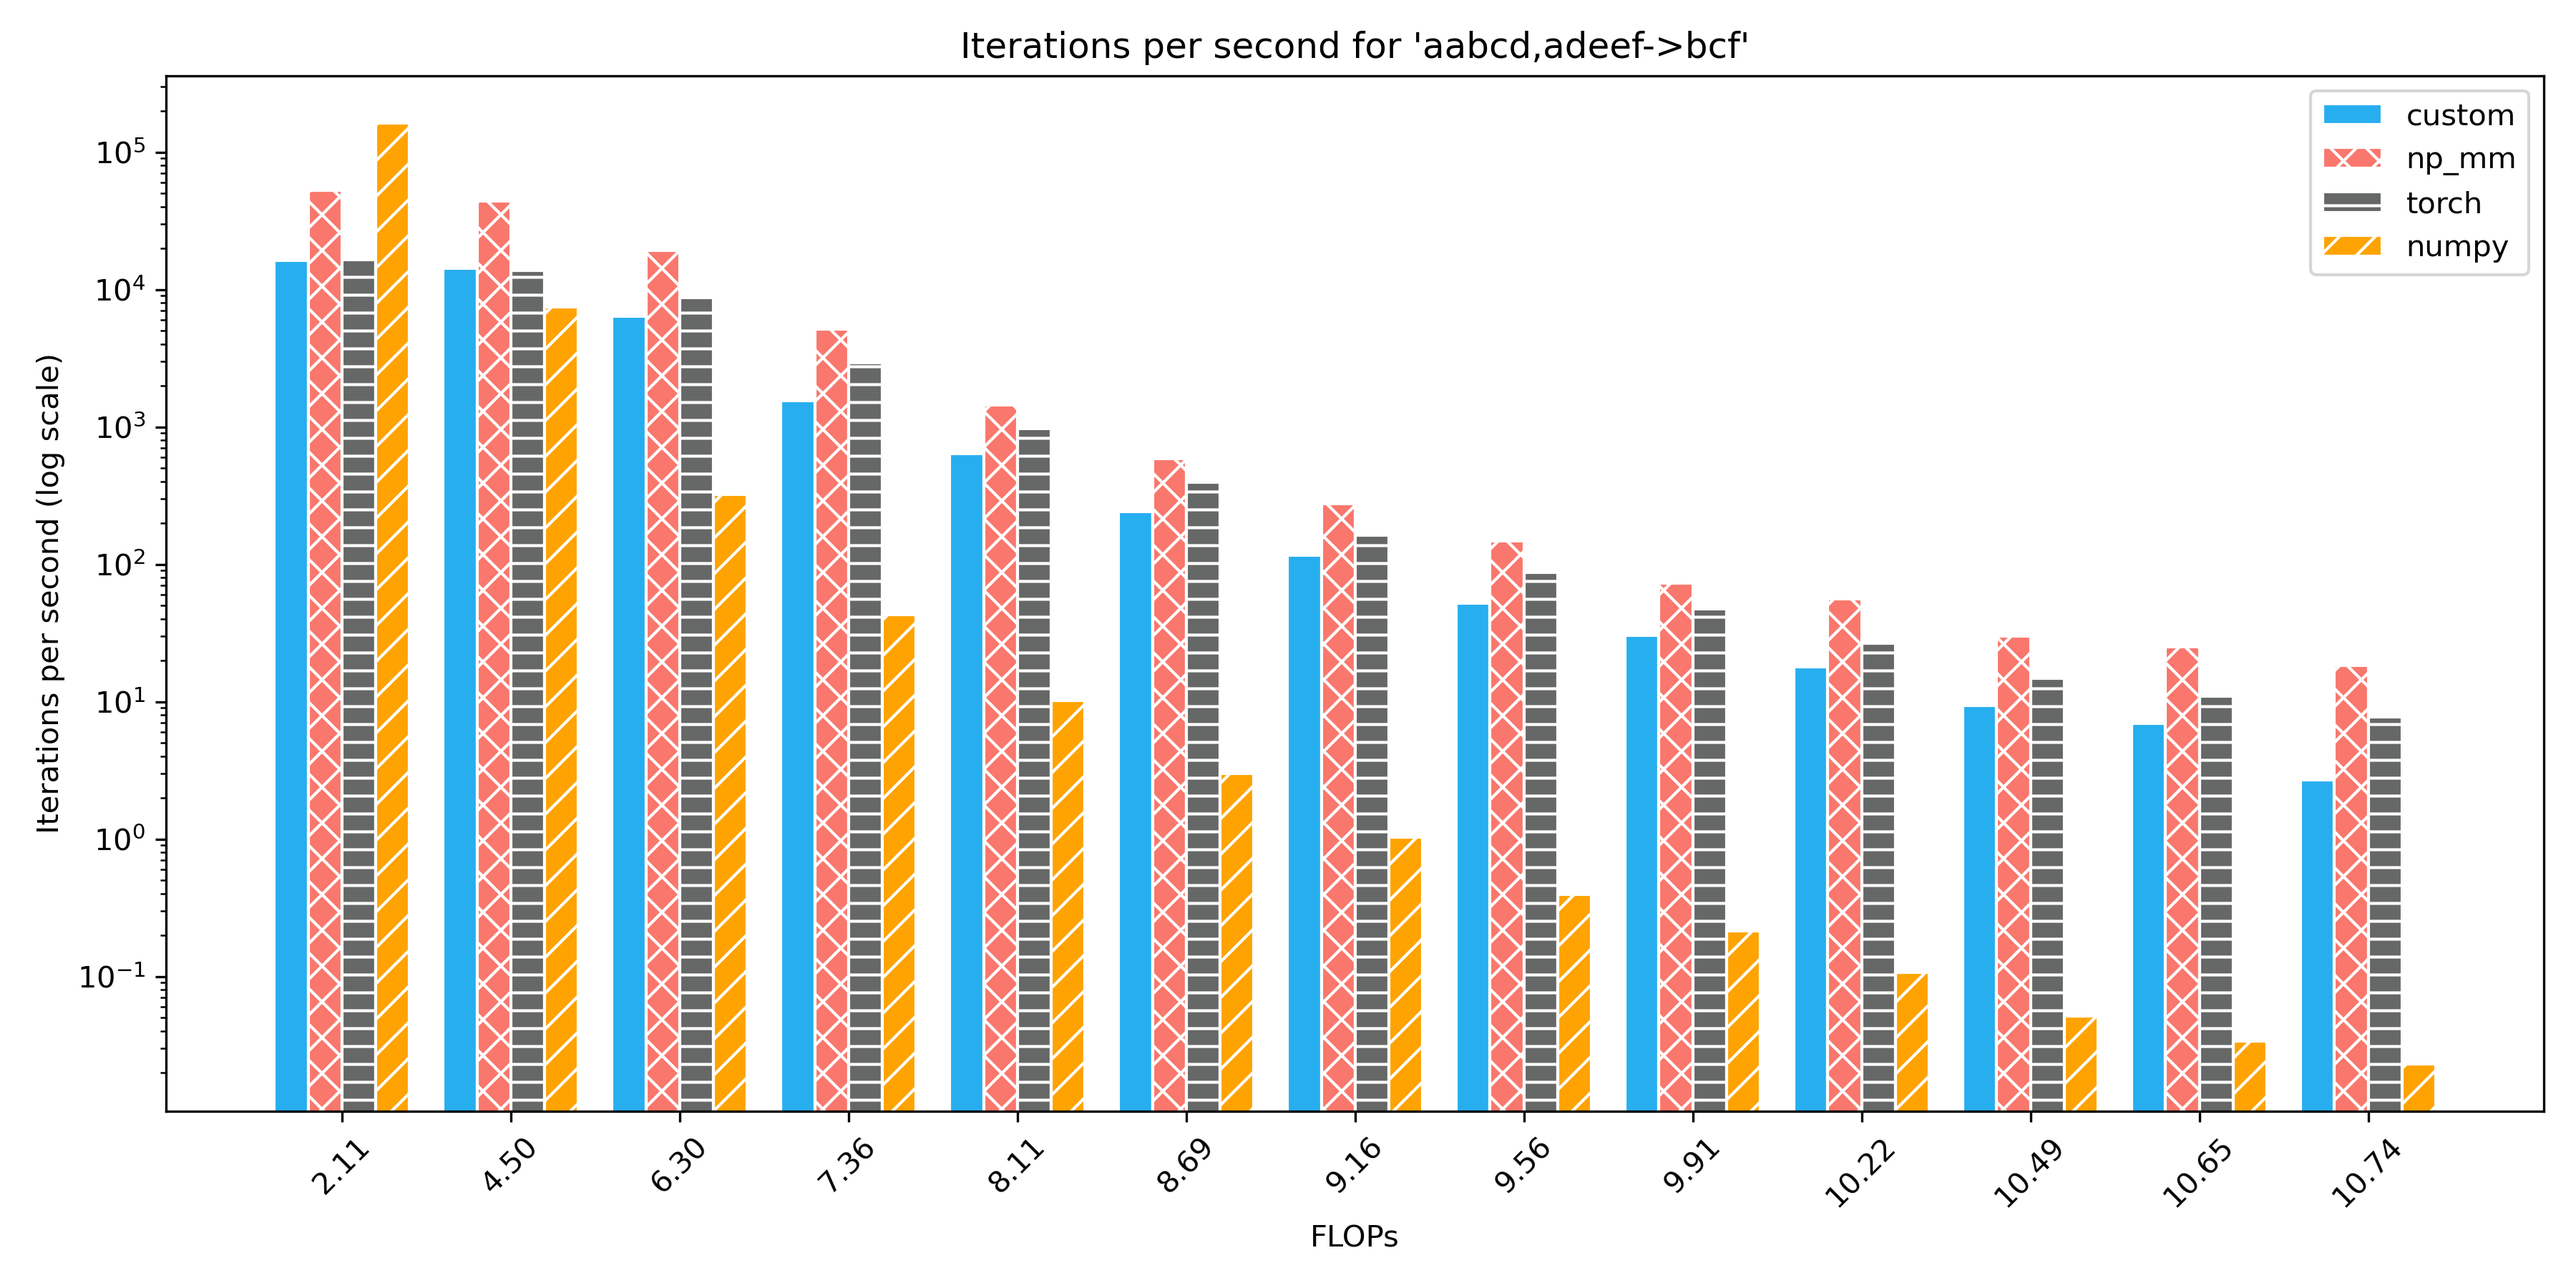
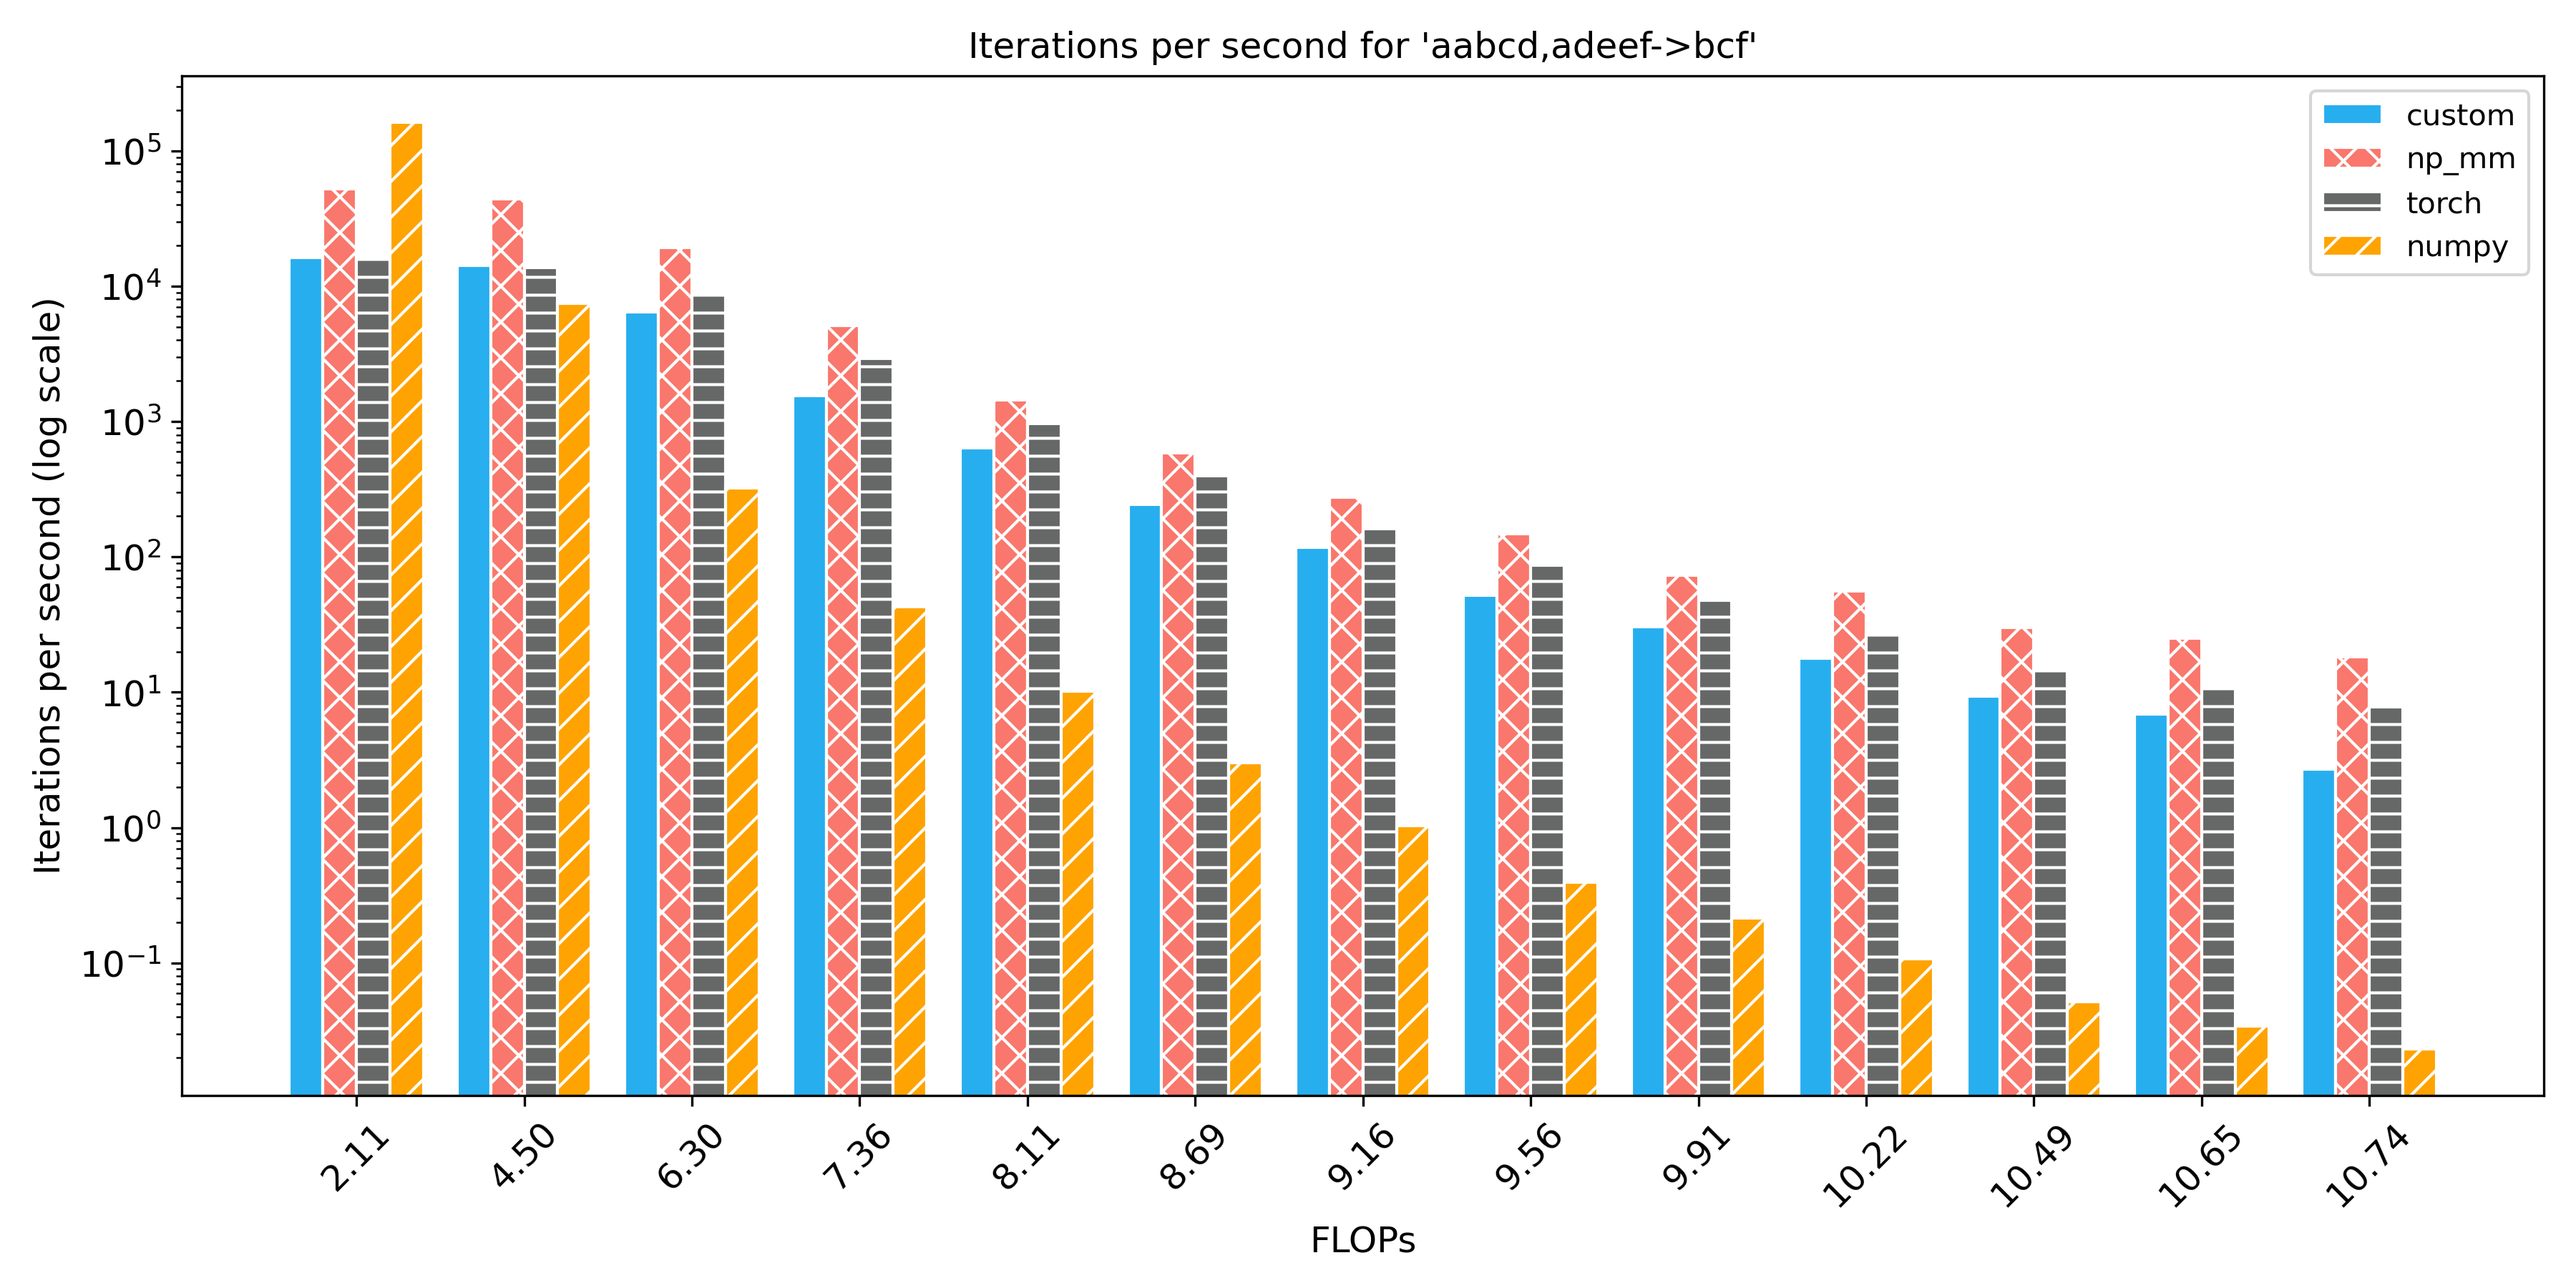
font size in plots

diff --git a/data/plots_dict.py b/data/plots_dict.py
@@ -243,8 +243,9 @@ def plot_flops():
 
         plt.yscale('log')
         plt.xticks(x + 1.5 * bar_width, [f"{f:.2f}" for f in flops_sorted], rotation=45)
-        plt.xlabel("FLOPs")
-        plt.ylabel("Iterations per second (log scale)")
+        plt.xlabel("FLOPs", fontsize = 12)
+        plt.tick_params(axis='both', labelsize=12) 
+        plt.ylabel("Iterations per second (log scale)", fontsize = 12)
         plt.title(f"Iterations per second for '{formatstring}'")
         plt.legend()
         plt.tight_layout()
@@ -255,6 +256,6 @@ def plot_flops():
 
 
 #plot_threads()
-#plot_flops()
-for file in ["Original_Datatypes.txt"]:
-    dynamic_normal_plot(file)
+plot_flops()
+#for file in ["Original_Datatypes.txt"]:
+#    dynamic_normal_plot(file)
